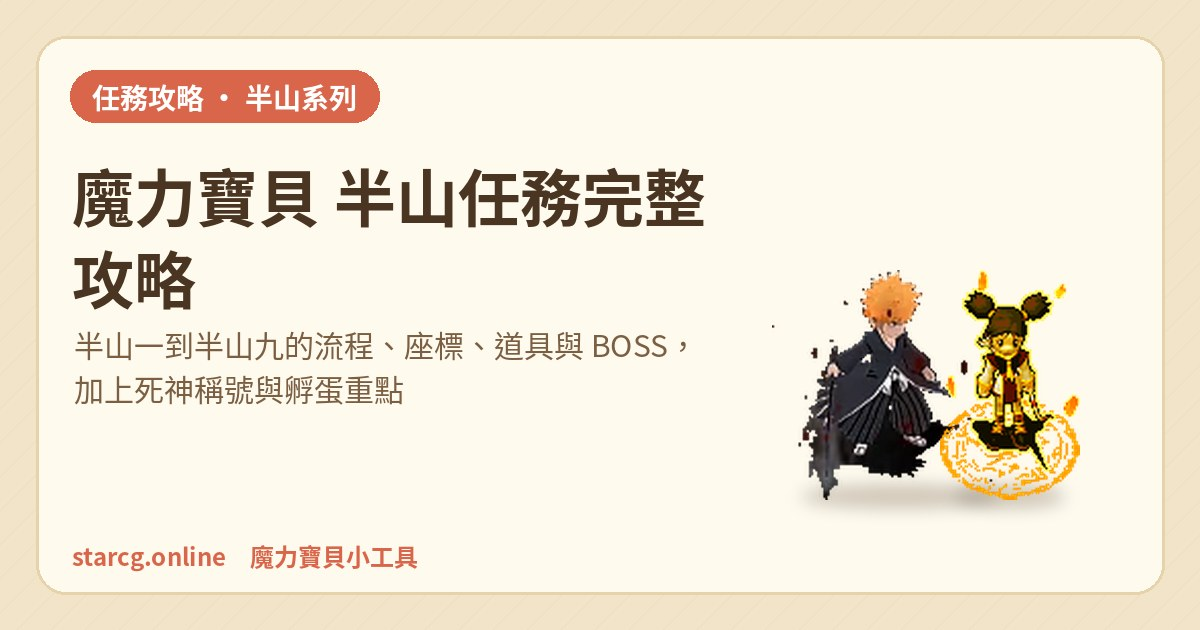
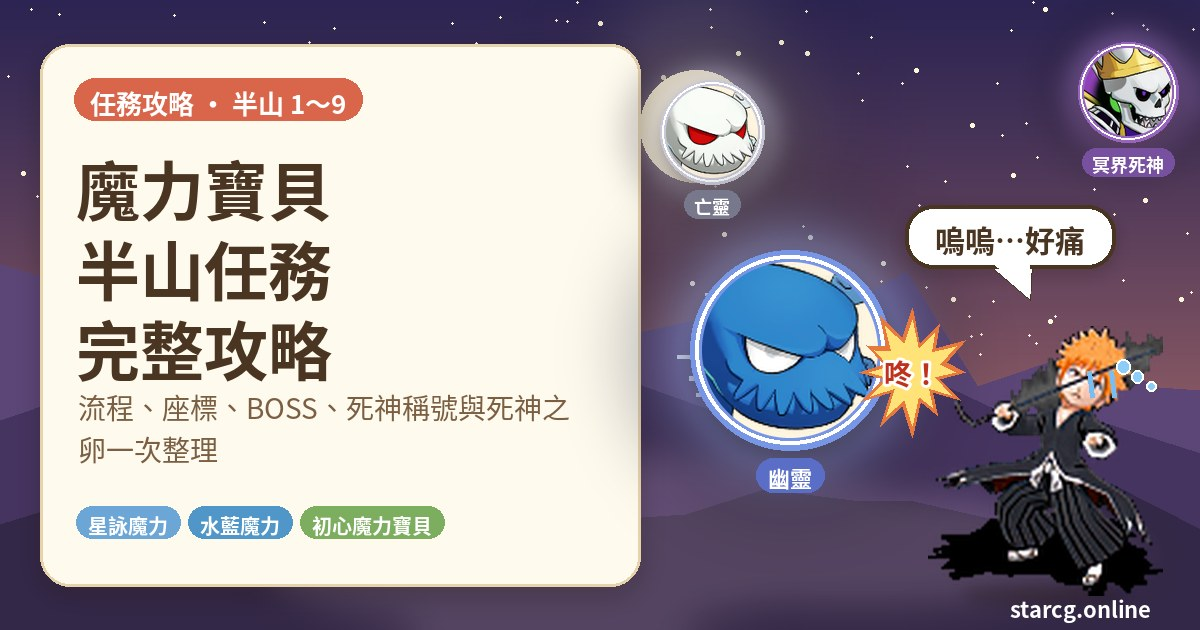
半山攻略圖片重做：夜景封面、九章怪物頭像、亡魂戰鬥、BOSS 圖鑑、迷宮層數、兩顆蛋孵化；加入水藍魔力／初心魔力寶貝關鍵字
Claude-Session: https://claude.ai/code/session_015zE4E5T7154vbHseJrngyz

diff --git a/src/posts/halfmountain-quest-guide.md b/src/posts/halfmountain-quest-guide.md
@@ -2,10 +2,10 @@
 title: 魔力寶貝 半山任務完整攻略：半山一到九流程、道具、BOSS 與死神稱號整理
 date: 2026-10-16
 desc: 星詠魔力半山系列任務一次看懂：半山一到半山九的座標、步驟、每人要帶的道具、BOSS 技能與常見卡關，還有半山腰練功前置、結界之鏈、死神之卵三次孵化的時間安排。
-tags: 半山任務, 魔力寶貝, 星詠魔力, 任務攻略, 死神稱號
+tags: 半山任務, 魔力寶貝, 星詠魔力, 水藍魔力, 初心魔力寶貝, 任務攻略, 死神稱號
 cover: img/halfmountain-quest-guide-cover.jpg
 ---
-玩魔力寶貝（本站以星詠魔力版本為主）到了 60 級上下，一定會聽到「去半山」。半山腰是 65～77 級很多人在用的練功點，而半山系列任務，就是把這個地方一步一步打開的九個任務。這篇把九個任務的順序、座標、要準備的東西和 BOSS 資料整理成一份能邊玩邊翻的流程，並把最容易卡關的地方特別標出來。
+玩魔力寶貝到了 60 級上下，一定會聽到「去半山」。半山腰是 65～77 級很多人在用的練功點，而半山系列任務，就是把這個地方一步一步打開的九個任務。這篇把九個任務的順序、座標、要準備的東西和 BOSS 資料整理成一份能邊玩邊翻的流程，並把最容易卡關的地方特別標出來。不論你玩的是星詠魔力、水藍魔力還是初心魔力寶貝，半山系列的任務流程都是一樣的，這份整理都能直接拿來用。
 
 > 本文整理自 [星詠魔力攻略網](https://guide.starcg.net/) 的半山系列頁面，並用我們自己的方式重新排序與改寫，沒有逐字照搬。BOSS 血量與數值是約略值，實際以遊戲內為準；遊戲更新後內容可能變動。
 
@@ -47,6 +47,8 @@ cover: img/halfmountain-quest-guide-cover.jpg
 4. 回到謝里雅堡 1 樓交給海德，完成。
 
 **要注意的地方**：好運符要**全隊每個人都有**，只要有一個人沒拿，就無法開戰。亡魂本人 70 級、約一萬血，還會召喚 84 級的被喚醒亡魂，比推薦等級高，等級不夠建議帶有控制技能的隊員。打完之後可以直接接半山二。
+
+![半山一：蒂娜村夜晚的亡魂 Lv70，比推薦等級還高，被打到哭也不奇怪](img/halfmountain-quest-guide-ghost.jpg)
 
 ## 半山二：亡者之鎮（第一次碰到 10,000G）
 
@@ -101,6 +103,8 @@ cover: img/halfmountain-quest-guide-cover.jpg
 
 **重點**：36 層是半山系列最長的一段路，全程都是隨機迷宮，每次樓梯位置都不一樣。這種時候用我們的 [迷宮找樓梯](/maze/) 工具會輕鬆很多，連結一次遊戲資料夾，走到哪裡地圖就畫到哪裡，樓梯一出現就標好座標。如果身上還有鋤頭，要先丟掉才能重新換。
 
+![半山各段隨機迷宮層數比較：海底約 12 層、小島 19 層、地獄 36 層、半山八合計 108 層](img/halfmountain-quest-guide-maze.jpg)
+
 ## 半山七：結界之鏈（備料任務）
 
 結界之鏈是 Lv.9 項鍊，攻擊 +30、敏捷 +12、精神 +8、必殺 +7 等，後面的半山八每個人都要有一條，而且做好後**不會消耗**。
@@ -123,6 +127,8 @@ cover: img/halfmountain-quest-guide-cover.jpg
 
 **冥界之雨不要丟**，下一章還要用到。
 
+![半山 BOSS 圖鑑：亡魂、深海領主、阿魯卡那斯、修特、四大守門人、死神的僕從與芒的等級血量](img/halfmountain-quest-guide-boss.jpg)
+
 ## 半山九：死與新生（死神稱號與死神之卵）
 
 1. 用冥界之雨傳到冥界，調查**死亡石碑**（377, 422）進冥界之森。
@@ -131,6 +137,8 @@ cover: img/halfmountain-quest-guide-cover.jpg
 4. 打贏後找**荷特普**（22, 19）交出冥界之雨，得到「飢餓的死神之卵」，同時獲得稱號「死神」，並失去先前半山系列的稱號（成就仍計算）。
 
 **孵化要花三天**：用死神之卵傳到冥界，打遊蕩靈魂收集 100 個**哭泣的靈魂**交給荷特普；每次要隔 24 小時，一共三次、共 300 個，第三次交出後拿到**死神之卵**，使用後隨機孵出暗黑僧侶（80%）或冥界死神（20%）。哭泣的靈魂不能交易、丟地或存銀行，記得寵物欄留空位。完成孵化前不能重新接任務，這個時間要先規劃好。
+
+![阿魯卡那斯的蛋與死神之卵可以孵出的寵物與機率](img/halfmountain-quest-guide-egg.jpg)
 
 ## 半山系列常見問題
 
